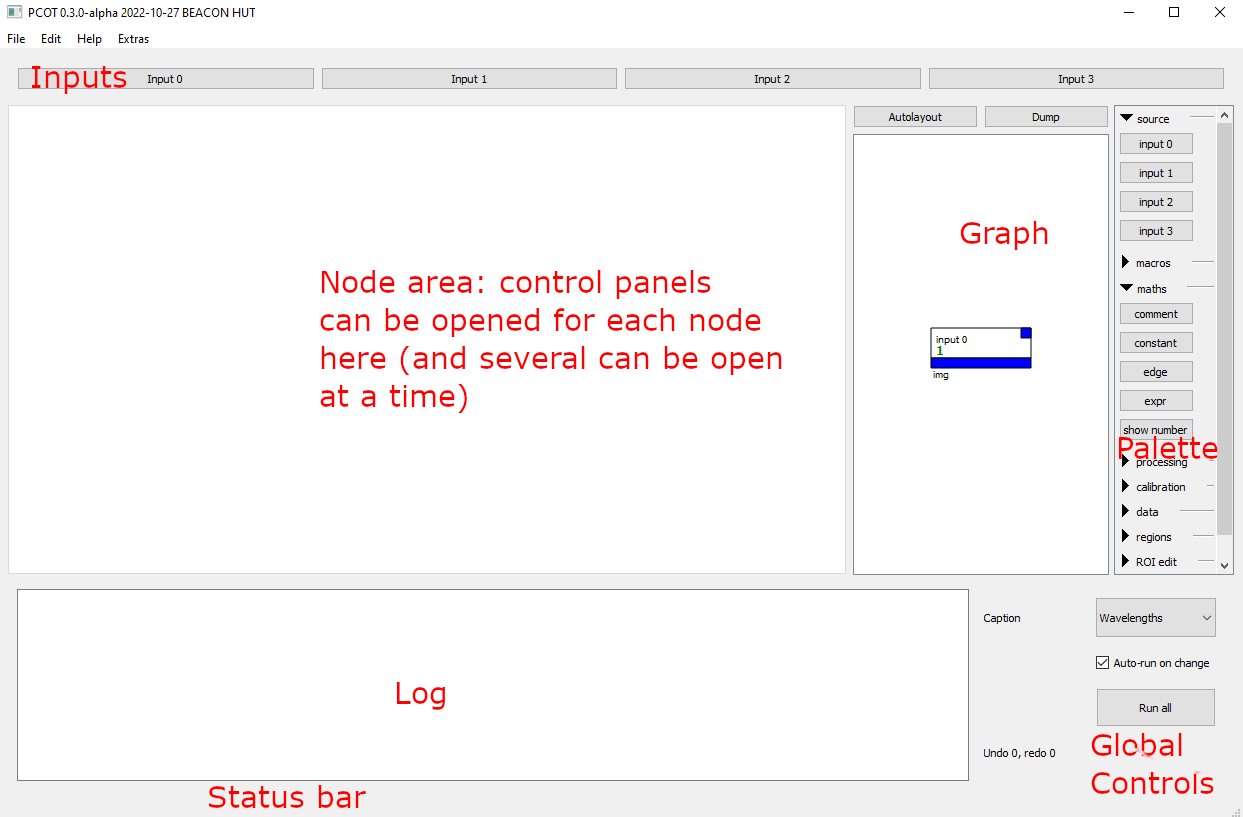
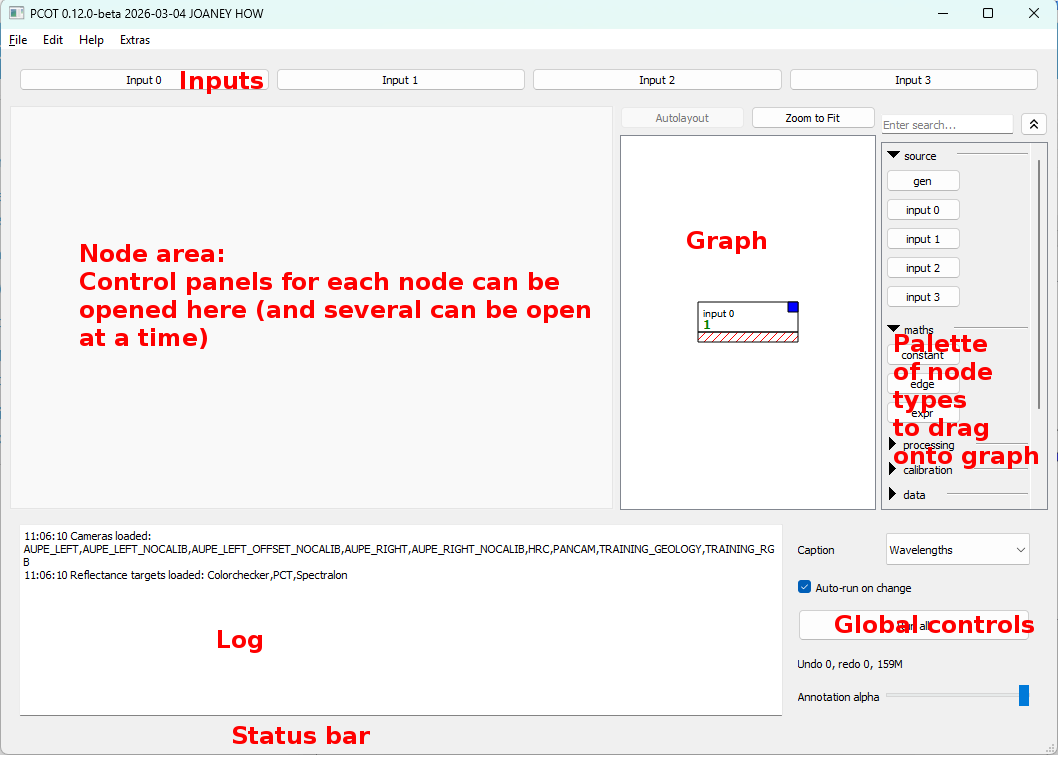
Updating docs

diff --git a/mkdocs/docs/gettingstarted/tutorial.md b/mkdocs/docs/gettingstarted/tutorial.md
@@ -13,9 +13,9 @@ an instruction to follow.
 
 
 @@@ danger
-Be aware that this is an early version and there are 
-no doubt a lot of serious problems! Also, the software is changing 
-very quickly, so it may not look exactly as it does in these pages.
+Be aware that the software is changing 
+very quickly, so it may not look exactly as it does in these pages. Different screenshots have been
+taken using different versions of PCOT, but the differences will be minor.
 @@@
 
 ## Preparation
@@ -35,21 +35,27 @@ of data. It is a subset of a larger image used in testing, and is shown below as
 
 Now you have this image you can ==start PCOT==.
 
-## Setting up the camera directory
+## Setting up the cameras and reflectances directories
 
 Your data may come from a number of different cameras, and different
-cameras have different parameters and filter sets. PCOT needs to be able
-to find the files which describe these cameras. It does this when it starts
+cameras have different parameters and filter sets. You may also use different
+calibration targets (e.g. the PCT or a Macbeth/Babel Colorchecker, or just Spectralon patches) which have
+different reflectance values. PCOT needs to be able
+to find the files which describe these cameras and targets. It does this when it starts
 up.
 
-When it can't find these files, PCOT will pop up a dialog box asking
-if you want to set a camera directory. You should select either the 
-camera directory provided by your team, or the default camera directory -
-this will be the `cameras` directory inside the main PCOT directory.
+When it can't find these files, PCOT will pop up dialog boxes asking
+if you want to set these directories. You should either select the directories
+provided by your team, or use the default "cameras" and "reflectances" directories
+inside the PCOT installation.
 
-More cameras can be downloaded from the 
+More cameras and reflectances can be downloaded from the 
 [PCOT Cookbook site](http://pcot.aber.ac.uk/), which also contains
-useful "recipes" for doing common operations.
+useful "recipes" for doing common operations. 
+
+@@@ warning
+Make sure you keep your camera files in a separate directory from the reflectances.
+@@@
 
 
 ## Introduction to the user interface
@@ -73,14 +79,16 @@ you can undock by double-clicking on the tab at the top of the view.
 the document and their connections. A new document always has an *input 0* node,
 which brings input 0 into the graph.
 * To the right of the graph is the **palette**, which consists of a number
-of sections which can be expanded or hidden. Each section a set of buttons, one for each node type. Drag a button onto the graph to create a new node of that type.
+of sections which can be expanded or hidden. Each section a set of buttons, one for each node type.
+Drag a button onto the graph to create a new node of that type. You can also search for nodes by name
+using the search box at the top.
 * At the bottom is the **log area**, the **status bar**, and a set of
 [global controls](../userguide/globalcontrols.md).
 
 ## Working with graph nodes
 
 Each node is shown as a box with input connections on the top and output connections on
-the bottom. To illustrate this, consider the following graph you've seen before:
+the bottom, as shown in the following graph:
 
 ![!R671_438 inset into source image RGB representation|671438grad](671438grad.png)
 
@@ -97,7 +105,8 @@ on inputs.
 calculated (see below).
 * Nodes can have a "display text" in blue. These show extra data, such as the output of a calculation in an *expr* node
 or the annotation given to a region of interest.
-* Currently nodes without a display text also show the number of times they have been calculated as a debugging aid.
+* Currently nodes without a display text also show the number of times they have been calculated.
+This appears in green, and is a debugging aid.
 
 ### Creating new nodes
 
@@ -147,8 +156,8 @@ These two nodes are special - the boxes in the graph have text fields
 which can be edited.
 
 *  For *constant* nodes, the value in the box 
-will be the numeric output of the node. This node has no view, and double-clicking
-has no effect.
+will be the numeric output of the node. This node has no view: double-clicking will
+have no effect.
 * For *comment* nodes, the value in the box is a text comment that can help
 other users navigate the graph. Once edited, the box can be resized by
 clicking and dragging its bottom-right corner. The text will flow to fit
@@ -192,7 +201,7 @@ You should see something like this:
 
 ### The Canvas
 
-The right-hand side is a common component in PCOT known as a
+The right-hand side of the input window is a common component in PCOT known as a
 **canvas** which will show the image selected. The canvas
 lets you modify how the RGB channels are mapped using the three combo boxes.
 Each box gives the band number, the input number and the wavelength. For
@@ -223,10 +232,8 @@ can be found [here](/userguide/canvas), but for now:
 * ==Click the **spectrum** button== to open a spectrum view, and move
 the cursor over the image to show the spectrum at different pixels. You may
 need to resize the window, or drag the "double bar" which separates the
-image from the spectrum.
-
-
-
+image from the spectrum. You can also change the size of the region over which the
+spectrum is sampled using the "spectrum region" control.
 
 
 ## Manipulating an image: obtaining a spectral parameter map
